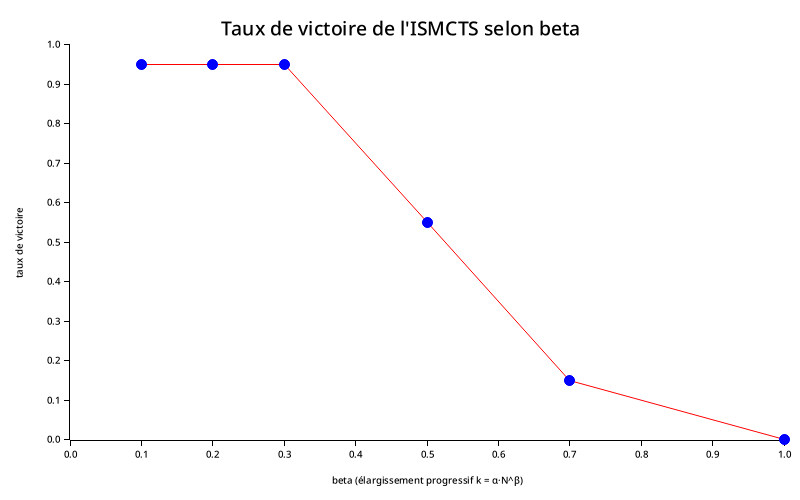
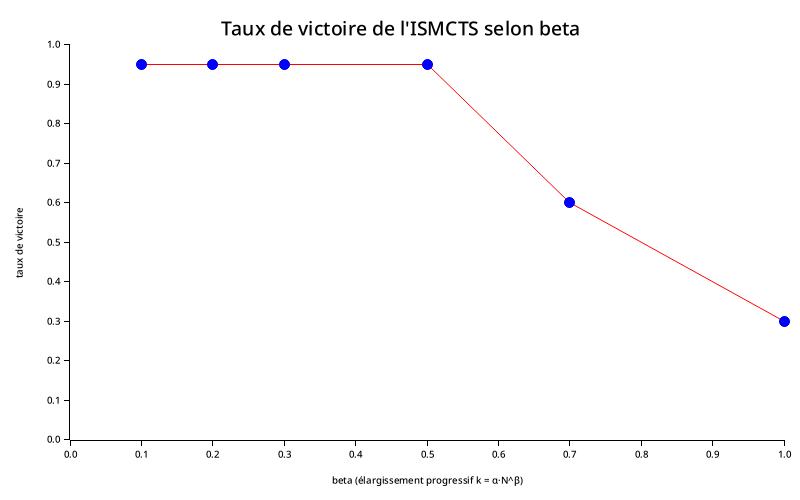
feat(rummikub-ia): 2D epsilon-beta sweep with a family-curve chart
balayage_2d crosses the two knobs over the same seeds; the bench
gains a graphique-2d mode printing the win-rate matrix, writing
banc/cartographie-epsilon-beta.csv and drawing one curve per beta
with a legend (courbes_familles in graphique.rs). Found and fixed on
the way: the 1D sweeps silently ignored the simulations argument and
ran at the 300-sim default, which made cross-sweep numbers
incomparable - they now honor it. ADR 0006 records the corrected
measures: the map is flat in epsilon everywhere, beta rules, the
plateau extends to 0.5 at this budget, defaults stay epsilon 0.2 /
beta 0.2.

diff --git a/crates/rummikub-ia/src/main.rs b/crates/rummikub-ia/src/main.rs
@@ -5,6 +5,7 @@
 //! Usages :
 //! - cargo run -p rummikub-ia [graines] [simulations] [epsilon]
 //! - cargo run -p rummikub-ia graphique [graines] [simulations]
+//! - cargo run -p rummikub-ia graphique-2d [graines] [simulations]
 
 use rummikub_ia::graphique;
 use rummikub_ia::ismcts::IsMcts;
@@ -19,6 +20,15 @@ fn main() {
         arguments.remove(0);
         if let Err(err) = mode_graphique(&arguments) {
             eprintln!("Erreur pendant le graphique : {err}");
+            std::process::exit(1);
+        }
+        return;
+    }
+
+    if arguments.first().map(|argument| argument.as_str()) == Some("graphique-2d") {
+        arguments.remove(0);
+        if let Err(err) = mode_cartographie(&arguments) {
+            eprintln!("Erreur pendant la cartographie 2D : {err}");
             std::process::exit(1);
         }
         return;
@@ -88,6 +98,7 @@ fn mode_graphique(arguments: &[String]) -> Result<(), String> {
     println!("Balayage d'epsilon : {graines} graines, {simulations} simulations par décision...");
     let points_epsilon = tournoi::balayage(&epsilons, graines, |epsilon| IsMcts {
         epsilon_rollout: epsilon,
+        simulations,
         ..Default::default()
     })?;
     afficher_points("epsilon", &points_epsilon);
@@ -106,6 +117,7 @@ fn mode_graphique(arguments: &[String]) -> Result<(), String> {
     );
     let points_beta = tournoi::balayage(&betas, graines, |beta| IsMcts {
         beta_elargissement: beta,
+        simulations,
         ..Default::default()
     })?;
     afficher_points("beta", &points_beta);
@@ -145,4 +157,88 @@ fn ecrire_csv(chemin: &str, entete: &str, points: &[(f64, f64)]) -> Result<(), S
     }
     std::fs::create_dir_all("banc").map_err(|erreur| erreur.to_string())?;
     std::fs::write(chemin, csv).map_err(|erreur| erreur.to_string())
+}
+
+/// Cartographie 2D : les couples (epsilon, beta) croisés, affichés en
+/// matrice, archivés en CSV et tracés en courbes familles (PNG)
+fn mode_cartographie(arguments: &[String]) -> Result<(), String> {
+    let graines: u32 = arguments
+        .first()
+        .and_then(|argument| argument.parse().ok())
+        .unwrap_or(20);
+    let simulations: usize = arguments
+        .get(1)
+        .and_then(|argument| argument.parse().ok())
+        .unwrap_or(50);
+
+    let epsilons = [0.0, 0.1, 0.2, 0.3, 0.5, 0.7, 1.0];
+    let betas = [0.1, 0.2, 0.3, 0.5, 0.7, 1.0];
+    println!(
+        "Cartographie 2D : {} epsilons × {} betas, {graines} graines, {simulations} simulations...",
+        epsilons.len(),
+        betas.len()
+    );
+
+    let grille = tournoi::balayage_2d(&epsilons, &betas, graines, |epsilon, beta| IsMcts {
+        epsilon_rollout: epsilon,
+        beta_elargissement: beta,
+        simulations,
+        ..Default::default()
+    })?;
+
+    // Matrice lisible : une ligne par beta, une colonne par epsilon
+    println!(
+        "{: >8} | {}",
+        "",
+        epsilons
+            .iter()
+            .map(|epsilon| format!("ε={epsilon:<4}"))
+            .collect::<Vec<_>>()
+            .join(" ")
+    );
+    for beta in &betas {
+        let ligne: Vec<String> = epsilons
+            .iter()
+            .map(|epsilon| {
+                let (_, _, taux) = grille
+                    .iter()
+                    .find(|(e, b, _)| *e == *epsilon && *b == *beta)
+                    .expect("chaque couple est joué");
+                format!("{:.0}%     ", taux * 100.0)
+            })
+            .collect();
+        println!("{: >8} | {}", format!("β={beta}"), ligne.join(" "));
+    }
+
+    let meilleure = grille
+        .iter()
+        .copied()
+        .max_by(|a, b| a.2.total_cmp(&b.2))
+        .expect("la grille n'est pas vide");
+    println!(
+        "Meilleur couple : epsilon {:.1}, beta {:.1} ({:.0}% de victoires)",
+        meilleure.0,
+        meilleure.1,
+        meilleure.2 * 100.0
+    );
+
+    // CSV à plat : epsilon,beta,taux
+    let mut csv = String::from("epsilon,beta,taux_ismcts\n");
+    for (epsilon, beta, taux) in &grille {
+        csv.push_str(&format!("{epsilon},{beta},{taux}\n"));
+    }
+    std::fs::create_dir_all("banc").map_err(|erreur| erreur.to_string())?;
+    std::fs::write("banc/cartographie-epsilon-beta.csv", csv)
+        .map_err(|erreur| erreur.to_string())?;
+
+    graphique::courbes_familles(
+        &epsilons,
+        &betas,
+        &grille,
+        "Taux de victoire de l'ISMCTS : une courbe par beta",
+        "epsilon (probabilité de coup aléatoire en rollout)",
+        "banc/cartographie-epsilon-beta.png",
+    )?;
+    println!("Graphique écrit dans banc/cartographie-epsilon-beta.png");
+    Ok(())
 }

diff --git a/crates/rummikub-ia/src/graphique.rs b/crates/rummikub-ia/src/graphique.rs
@@ -51,5 +51,63 @@ pub fn courbe(
     racine.present().map_err(|erreur| erreur.to_string())
 }
 
+/// Trace une famille de courbes (x = epsilon, une courbe colorée par beta)
+/// avec une légende, dans un PNG
+pub fn courbes_familles(
+    epsilons: &[f64],
+    betas: &[f64],
+    grille: &[(f64, f64, f64)],
+    titre: &str,
+    libelle_x: &str,
+    chemin: &str,
+) -> Result<(), String> {
+    let racine = BitMapBackend::new(chemin, (800, 500)).into_drawing_area();
+    racine.fill(&WHITE).map_err(|erreur| erreur.to_string())?;
+
+    let mut diagramme = ChartBuilder::on(&racine)
+        .caption(titre, ("sans-serif", 24))
+        .margin(15)
+        .x_label_area_size(45)
+        .y_label_area_size(55)
+        .build_cartesian_2d(0.0f64..1.0f64, 0.0f64..1.0f64)
+        .map_err(|erreur| erreur.to_string())?;
+
+    diagramme
+        .configure_mesh()
+        .x_desc(libelle_x)
+        .y_desc("taux de victoire")
+        .disable_x_mesh()
+        .disable_y_mesh()
+        .draw()
+        .map_err(|erreur| erreur.to_string())?;
+
+    let couleurs = [&RED, &BLUE, &GREEN, &MAGENTA, &CYAN, &BLACK];
+    for (index, beta) in betas.iter().enumerate() {
+        let style = couleurs[index % couleurs.len()];
+        let mut points: Vec<(f64, f64)> = grille
+            .iter()
+            .filter(|(epsilon, beta_grille, _)| *beta_grille == *beta && epsilons.contains(epsilon))
+            .map(|(epsilon, _, taux)| (*epsilon, *taux))
+            .collect();
+        points.sort_by(|a, b| a.0.total_cmp(&b.0));
+
+        let serie = diagramme
+            .draw_series(LineSeries::new(points, *style))
+            .map_err(|erreur| erreur.to_string())?;
+        serie
+            .label(format!("beta {beta}"))
+            .legend(move |(x, y)| Rectangle::new([(x - 10, y - 3), (x + 10, y + 3)], *style));
+    }
+
+    diagramme
+        .configure_series_labels()
+        .background_style(WHITE.mix(0.8))
+        .border_style(BLACK)
+        .draw()
+        .map_err(|erreur| erreur.to_string())?;
+
+    racine.present().map_err(|erreur| erreur.to_string())
+}
+
 #[cfg(test)]
 mod tests;

diff --git a/crates/rummikub-ia/src/tournoi.rs b/crates/rummikub-ia/src/tournoi.rs
@@ -94,6 +94,29 @@ pub fn balayage(
         .collect()
 }
 
+/// Balaye en 2D les couples (epsilon, beta) : chaque couple joue le même
+/// tournoi (mêmes graines) et la fonction retourne la grille à plat
+/// (epsilon, beta, taux de victoire de l'ISMCTS).
+pub fn balayage_2d(
+    epsilons: &[f64],
+    betas: &[f64],
+    nb_graines: u32,
+    fabriquer: impl Fn(f64, f64) -> IsMcts,
+) -> Result<Vec<(f64, f64, f64)>, String> {
+    epsilons
+        .iter()
+        .flat_map(|&epsilon| {
+            betas
+                .iter()
+                .map(|&beta| {
+                    let resultat = tournoi(nb_graines, &fabriquer(epsilon, beta))?;
+                    Ok((epsilon, beta, resultat.taux_ismcts()))
+                })
+                .collect::<Vec<Result<(f64, f64, f64), String>>>()
+        })
+        .collect()
+}
+
 /// Enregistre une ligne de résultats dans le CSV du banc (créé avec son
 /// en-tête au besoin), pour suivre l'évolution des IA au fil des versions.
 /// L'horodatage est en secondes depuis l'epoch (format CSV, sans dépendance).

diff --git a/docs/adr/0006-elargissement-progressif.md b/docs/adr/0006-elargissement-progressif.md
@@ -28,35 +28,45 @@ d'office.
   d'expansion a changé) — les scores de tournoi ne sont pas comparables à
   ceux des versions antérieures à graine égale.
 
-## Mesures au banc (2026-11-02, 20 graines × 50 simulations, mains tronquées à 6)
+## Mesures au banc (2026-11-02, 20 graines, mains tronquées à 6)
 
-Balayage de β (ε au défaut de 0.2) — `banc/balayage-beta.csv`,
-`banc/graphique-beta.png` :
+> Note d'outillage : le premier balayage de β portait mal le budget — il
+> tournait à 300 simulations (défaut) au lieu des 50 annoncées, et ses
+> chiffres étaient incohérents avec la cartographie 2D. Le bug (les
+> balayages 1D ignoraient l'argument `simulations`) est corrigé ; les
+> chiffres ci-dessous sont les mesures corrigées.
+
+**β à 50 simulations** (ε au défaut) — `banc/balayage-beta.csv` :
 
 | β | 0.1 | 0.2 | 0.3 | 0.5 | 0.7 | 1.0 |
 |---|---|---|---|---|---|---|
-| Victoires | 95% | 95% | 95% | 55% | 15% | **0%** |
+| Victoires | 95% | 95% | 95% | 95% | 60% | 30% |
 
-- **Plateau net à β ≤ 0.3, puis effondrement** : le défaut initial (0.5)
-  était dans la pente, il est corrigé à **0.2** (milieu du plateau).
-- **β = 1.0 (aucun élargissement) perd 20 parties sur 20** : à 50
-  simulations, l'arbre non dosé s'éparpille sur des centaines d'enfants et
-  les décisions deviennent quasi aléatoires. L'élargissement n'est pas une
-  raffinement ici, c'est ce qui rend la recherche jouable.
-- Balayage d'epsilon **re-fait au nouveau β** (`banc/balayage-epsilon.csv`) :
-  courbe plate à 95% sur tout le segment ε ∈ [0, 1] — une fois l'arbre bien
-  concentré, la qualité des rollouts devient secondaire. ε garde son défaut
-  de 0.2 (réglage devenu secondaire).
+**Cartographie 2D ε × β** (42 couples) — `banc/cartographie-epsilon-beta.csv`,
+`banc/cartographie-epsilon-beta.png` : pour β ≤ 0.5, la ligne est **plate à
+95% sur tout le segment ε ∈ [0, 1]** ; β = 0.7 oscille entre 47% et 65% sans
+tendance nette en ε ; β = 1.0 est plat à 30%. La cartographie PNG trace une
+courbe par β.
+
+Conclusions :
+
+- **β est le facteur dominant, ε est secondaire** à ce budget : la carte
+  est plate en ε partout, et ne varie qu'en β.
+- **Le plateau s'étend jusqu'à β = 0.5** à 50 simulations, avec l'effondrement
+  attendu au-delà (β = 1.0, l'arbre non dosé : 30%). Le défaut est fixé à
+  **0.2**, au milieu du plateau [0.1 ; 0.5].
+- Le plafond à ~95% face à l'heuristique est probablement la limite du cadre
+  (mains tronquées : certaines parties sont perdantes quelle que soit la
+  recherche).
+- À budget plus large (plus de simulations), la frontière du plateau se
+  déplacera vraisemblablement vers le haut — re-balayer si le budget change.
 
 ## Conséquences
 
 - Le même budget de simulations se concentre sur les meilleurs coups — et
   la mesure montre que c'est le facteur dominant, devant ε et les rollouts.
-- Les valeurs mesurées dépendent du budget (50 simulations) et du cadre du
-  banc (mains tronquées) : à budget plus large, un β plus grand pourrait
-  redevenir meilleur — re-balayer si le budget change.
 - Le risque documenté (coup génique hors top-k) reste réel aux β faibles :
-  le plateau observé (0.1 aussi bon que 0.3) suggère une marge, mais la
+  le plateau large (0.1 aussi bon que 0.5) suggère une marge, mais la
   frontière exacte se re-valide à chaque changement de budget.
 
 ## Le parti pris de l'ordre d'admission
